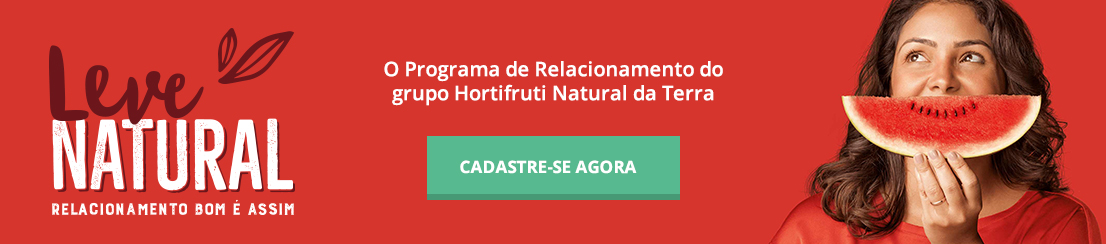
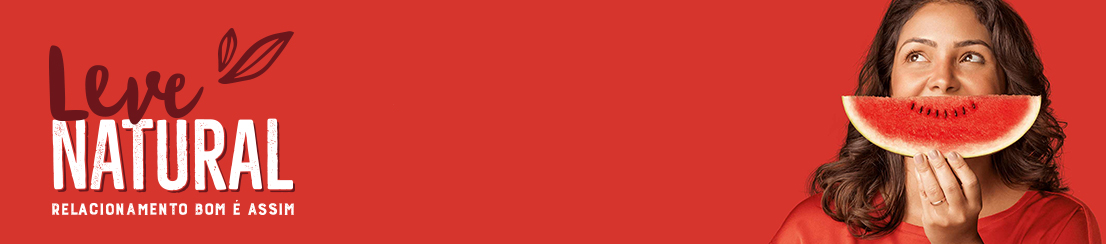
alterações

Changed region(s): [[0.3689, 0.5451, 0.6148, 0.832], [0.3382, 0.3443, 0.6456, 0.4303], [0.3382, 0.2582, 0.6763, 0.3156]]

diff --git a/style.css b/style.css
@@ -21,6 +21,7 @@ font-family: 'Sanchez', serif;
     --color-bar : #83A603;
 
     --heigth-img: clamp(1.5rem, calc(5vw - 0.25rem), 4rem);
+    --width-banner: clamp(15rem, calc(60vw - 0.4rem), 80rem);
 
     --font-16: clamp(0.3em ,calc(1.5vw - 0.2em), 1em);
     --font-18: clamp(0.4em, calc(2vw - 0.2em), 1.125em);
@@ -71,8 +72,8 @@ h1{
 .left-navegation nav ul li a{
     color: black;
     transition: 0.2s;
-
 }
+
 .left-navegation nav ul li a:hover{
     border-top: 4px solid var(--color-tittle);
 }
@@ -134,6 +135,11 @@ h1{
     transition: 0.2s;
 }
 
+.imgBanner {
+    width: var(--width-banner);
+    border-radius: clamp(2px, calc(2vw - 0.1rem), 20px);
+}
+
 #container{
     display: flex;
     position: relative;
@@ -141,25 +147,77 @@ h1{
     align-items: center;
 }
 #subs{
+    display: flex;
+    flex-direction: column;
     position: absolute;
-    top: 50%;
-    right: 50%;
-    background-color: var(--color-bt);
+    top: 30%;
+    right: 45%;
     color: white;
+    text-align: center;
+}
+
+#btn-saiba{
+    padding: clamp(.5rem, calc(0.5vw - 0.10rem), 2.5rem) clamp(1.0rem, calc(1vw - 0.25rem), 5rem);
+    background-color: #37D581;
+    border-radius: clamp(0.5px, calc(1vw - 0.1rem), 10px);
+    margin-top: 40px;
 }
 
 .categorias{
     display: flex;
     justify-content: center;
     width: 100%;
+    margin-top: clamp(5px, calc(5vw - .1rem), 60px);
 }
 .categorias ul{
     display: flex;
     justify-content: space-evenly;
-    width: 80%;
+    width: 60%;
 
 }
 
 .categorias ul li a img{
-    width: 49px;
+    width: clamp(1rem, calc(3vw - 0.1rem), 4rem);
+    padding: clamp(.10rem, calc(1vw - 0.25rem), 7rem);
+    background-color: #E89F71;
+    border-radius: clamp(2px, calc(2vw - 0.1rem), 20px);
+}
+
+/* Botão de procura no site */
+
+.search {
+    width: 50%;
+    position: relative;
+    display: flex;
+}
+
+.search>input {
+    width: 100%;
+    border: none;
+    padding-left: 10px;
+    height: 81px;
+    border-radius: 5px 0 0 5px;
+    color: #D6352D;
+    background-color: rgba(191, 109, 78,0.1);
+}
+
+.search>input:focus {
+    color: #DA6216;
+}
+
+.search>button {
+    width: 40px;
+    height: 36px;
+    border: none;
+    background-color: rgba(191, 109, 78,0.1);
+    align-items: center;
+    border-radius: 0 5px 5px 0;
+    cursor: pointer;
+    justify-content: center;
+}
+
+.wrapper {
+    width: 40%;
+    position: absolute;
+    margin-top: clamp(5px, calc(5vw - .1rem), 60px);
 }

diff --git a/index.html b/index.html
@@ -35,7 +35,7 @@
     <main>
         <section>
             <article id="container">
-                <img src="img/banner.png" alt="Banner principal">
+                <img class="imgBanner" src="img/banner.png" alt="Banner principal">
                 <div id="subs">
                     <p>O Programa de Relacionamento do <br />Grupo Hortifruti Mazzaropi</p>
                     <span id="btn-saiba">Saiba Mais</span>
@@ -57,6 +57,14 @@
                 </ul>
             </nav>
         </section>
+        <div class="wrapper">
+            <div class="search">
+                <input type="text" class="procurar" placeholder="O que você vai querer hoje?">
+                <button type="submit">
+                    <img src="img/icone-procurar.svg" alt="icone procurar">
+                </button>
+            </div>
+        </div>
     </main>
 </body>
 
